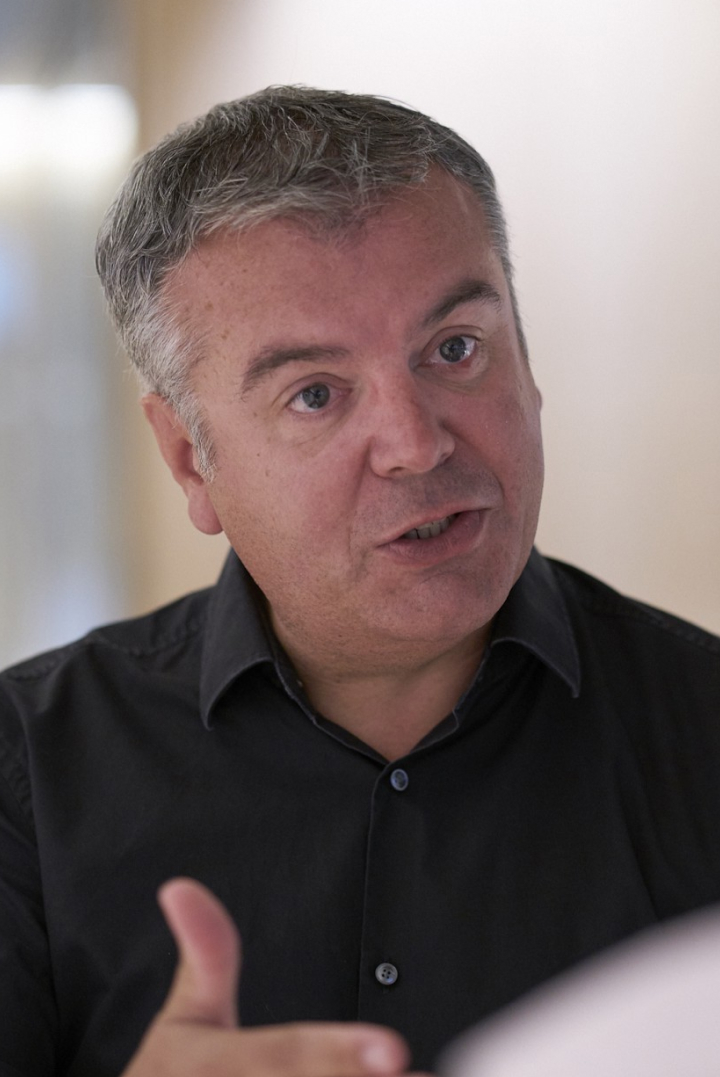
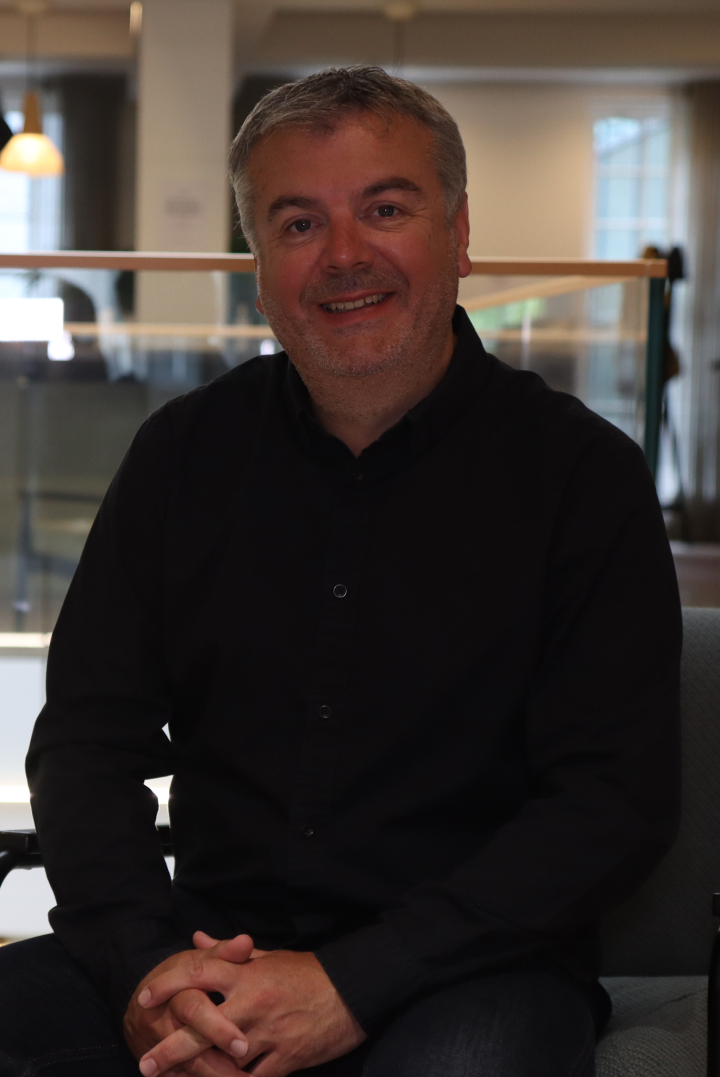
fixes for mobile, replace Andy photo, add some links

diff --git a/src/pages/about-us.js b/src/pages/about-us.js
@@ -45,7 +45,9 @@ const AboutUs = ({ location }) => {
                             </div>
                         </div>
                         <div className='col-span-12 md:col-span-6'>
+                            <div className="max-w-xs sm:max-w-none">
                             <OvidiuAndManuela />
+                            </div>
                         </div>
                     </Row>
                 </div>
@@ -101,7 +103,7 @@ const AboutUs = ({ location }) => {
                                 Our Leadership
                             </h2>
                         </div>
-                        <Row className='max-w-4xl mx-auto gap-8'>
+                        <Row className='max-w-4xl mx-auto md:gap-8'>
                             <div className='col-span-6 sm:col-span-4 lg:col-span-4'>
                                 <LeaderOvidiu
                                     className='rounded-md shadow-md mb-4'
@@ -115,8 +117,8 @@ const AboutUs = ({ location }) => {
                                     rel='noopener noreferrer'
                                     target='_blank'
                                 >
-                                    <FaLinkedin className='text-lg' />
-                                    <span className='ml-2'>Founder & CEO</span>
+                                    <FaLinkedin className='text-sm sm:text-lg mt-1 sm:mt-0' />
+                                    <span className='ml-1 sm:ml-2'>Founder & CEO</span>
                                 </a>
                             </div>
                             <div className='col-span-6 sm:col-span-4 lg:col-span-4'>
@@ -132,8 +134,8 @@ const AboutUs = ({ location }) => {
                                     rel='noopener noreferrer'
                                     target='_blank'
                                 >
-                                    <FaLinkedin className='text-lg' />
-                                    <span className='ml-2'>Founder & COO</span>
+                                    <FaLinkedin className='text-sm sm:text-lg mt-1 sm:mt-0' />
+                                    <span className='ml-1 sm:ml-2'>Founder & COO</span>
                                 </a>
                             </div>
                             <div className='col-span-6 sm:col-span-4 lg:col-span-4'>
@@ -149,8 +151,8 @@ const AboutUs = ({ location }) => {
                                     rel='noopener noreferrer'
                                     target='_blank'
                                 >
-                                    <FaLinkedin className='text-lg' />
-                                    <span className='ml-2'>VP Ops in Residence</span>
+                                    <FaLinkedin className='text-sm sm:text-lg mt-1 sm:mt-0' />
+                                    <span className='ml-1 sm:ml-2'>VP Ops in Residence</span>
                                 </a>
                             </div>
                         </Row>
@@ -162,16 +164,34 @@ const AboutUs = ({ location }) => {
                 <Section>
                     <h2 className='text-blue sm:text-3xl text-4xl leading-normal mb-6 text-center'>Backed by</h2>
                     <div className='flex justify-center flex-wrap'>
-                        <Notion />
-                        <Seedcamp />
-                        <Gapminder />
-                        <Seedblink />
+                        <a
+                            className='text-blue'
+                            href='https://www.notion.vc/'
+                            target='_blank'
+                            rel='noopener noreferrer'
+                        >
+                            <Notion />
+                        </a>
+                        <a className='text-blue' href='https://seedcamp.com/' target='_blank' rel='noopener noreferrer'>
+                            <Seedcamp />
+                        </a>
+                        <a className='text-blue' href='https://gapminder.vc/' target='_blank' rel='noopener noreferrer'>
+                            <Gapminder />
+                        </a>
+                        <a
+                            className='text-blue'
+                            href='https://seedblink.com/'
+                            target='_blank'
+                            rel='noopener noreferrer'
+                        >
+                            <Seedblink />
+                        </a>
                     </div>
                 </Section>
             </Container>
             <Container className='relative'>
                 <Section>
-                    <Row className='gap-8'>
+                    <Row className='md:gap-8'>
                         <div className='col-span-12'>
                             <h2 className='text-blue sm:text-3xl text-4xl leading-normal mb-6 text-center'>Our Team</h2>
                         </div>
@@ -184,7 +204,7 @@ const AboutUs = ({ location }) => {
                                         {React.cloneElement(photo, {
                                             ...photo.props,
                                             alt: `${name} - ${position}`,
-                                            className: 'rounded-sm shadow-sm'
+                                            className: 'rounded-md shadow-md'
                                         })}
                                         <div className='mt-4'>
                                             <strong>{name}</strong>
